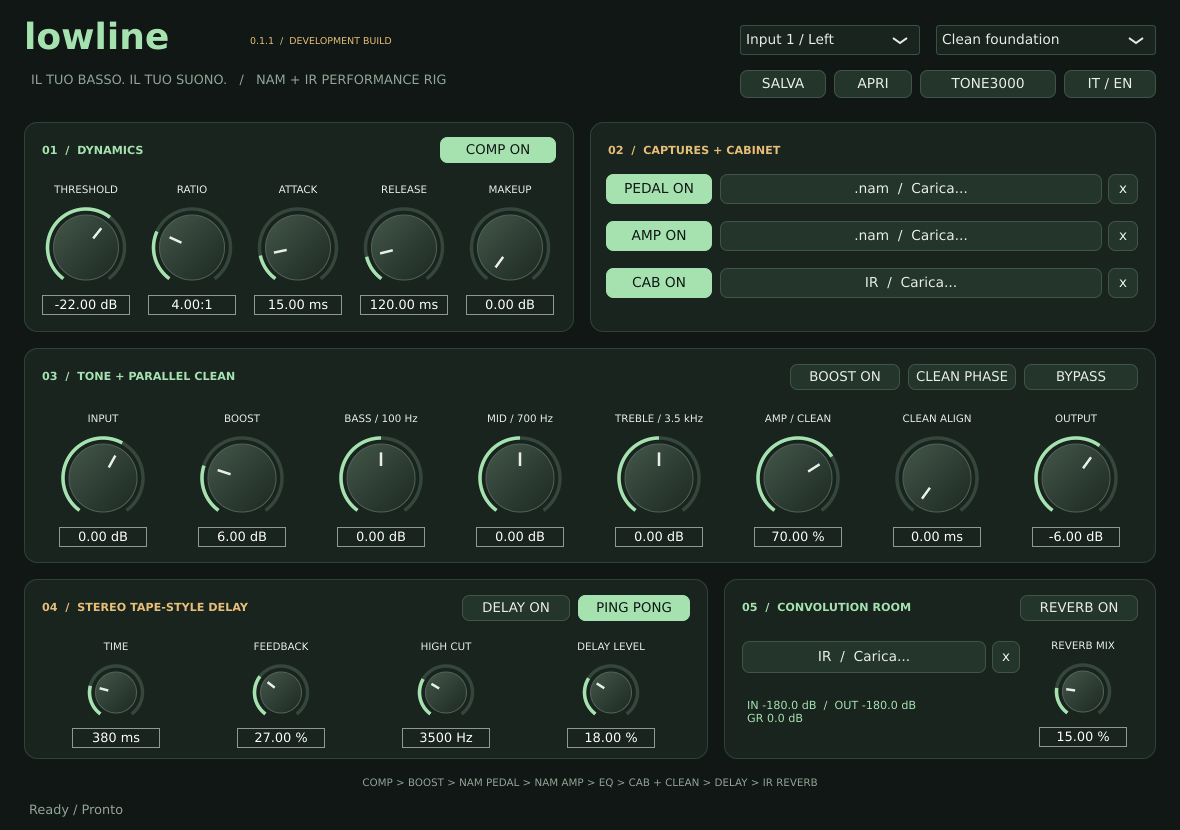
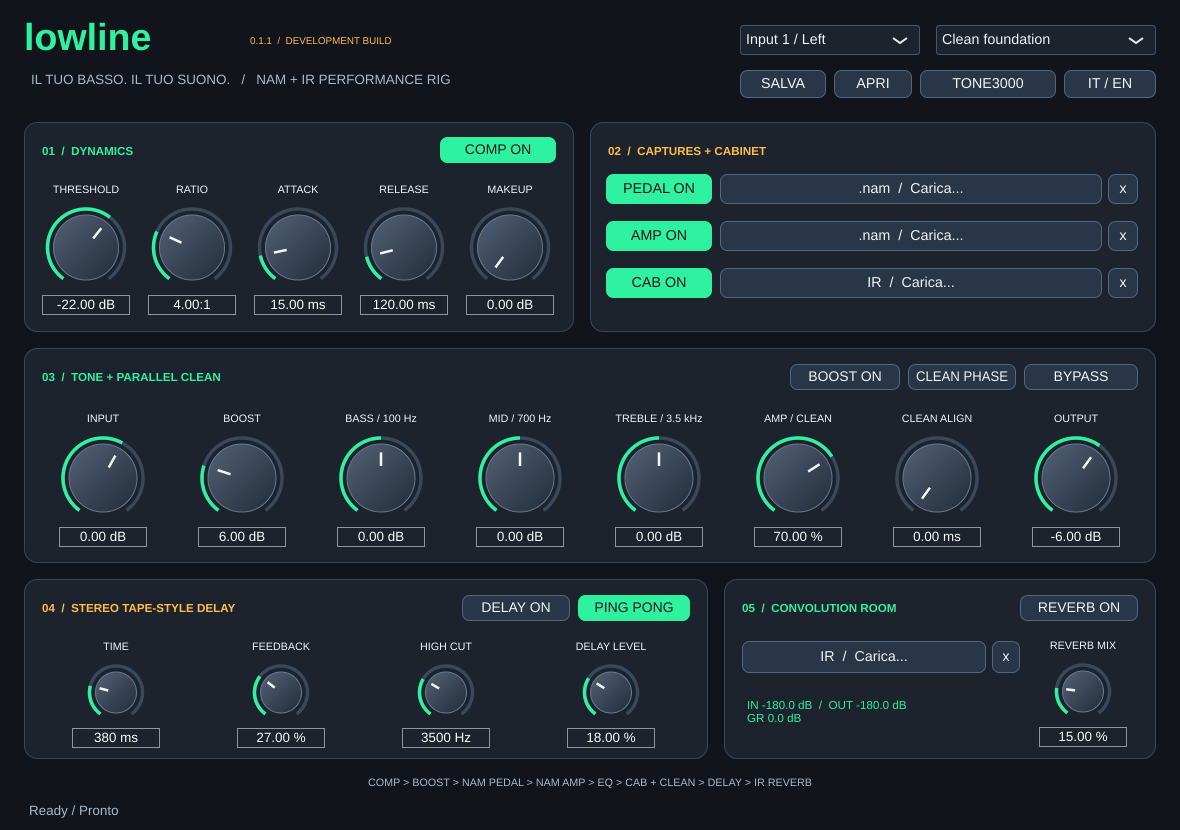
Update interface preview and verified platform downloads [skip ci]

diff --git a/README.md b/README.md
@@ -5,7 +5,7 @@ See `CHANGELOG.md` for the 0.1.1 maintenance fixes.
 
 Original interface and signal-chain implementation, inspired by the idea of a compact amp-and-pedals workspace. Not affiliated with NamRay, Neural Amp Modeler or TONE3000.
 
-**Development version 0.1.1.** Ready-to-run packages are published in [GitHub Actions](https://github.com/MassimoDanieli/lowline/actions/runs/39127864528): Mac universal (Apple Silicon + Intel), Windows x64 and Linux x64. The source ZIP itself contains no binaries. To compile locally, use the included scripts. Build and software tests have run on all three platforms; see `VALIDATION.md` for the limits of that verification.
+**Development version 0.1.1.** Ready-to-run packages are published in [GitHub Actions](https://github.com/MassimoDanieli/lowline/actions/runs/39129426200): Mac universal (Apple Silicon + Intel), Windows x64 and Linux x64. The source ZIP itself contains no binaries. To compile locally, use the included scripts. Build and software tests have run on all three platforms; see `VALIDATION.md` for the limits of that verification.
 
 ![Lowline interface](preview.png)
 
@@ -53,7 +53,7 @@ Set hardware gain so normal playing stays below clipping, then adjust Lowline in
 
 ## Download builds from GitHub Actions
 
-Open the repository's **Actions** tab, select a successful **Native builds** run, and download its **Lowline-macOS-universal**, **Lowline-Windows-x64** or **Lowline-Linux-x64** artifact. Direct packages for the verified 0.1.1 build: [Mac universal](https://github.com/MassimoDanieli/lowline/actions/runs/39127864528/artifacts/12136713681), [Windows x64](https://github.com/MassimoDanieli/lowline/actions/runs/39127864528/artifacts/12136892733), [Linux x64](https://github.com/MassimoDanieli/lowline/actions/runs/39127864528/artifacts/12137256442).
+Open the repository's **Actions** tab, select a successful **Native builds** run, and download its **Lowline-macOS-universal**, **Lowline-Windows-x64** or **Lowline-Linux-x64** artifact. Direct packages for the verified 0.1.1 build: [Mac universal](https://github.com/MassimoDanieli/lowline/actions/runs/39129426200/artifacts/12138015372), [Windows x64](https://github.com/MassimoDanieli/lowline/actions/runs/39129426200/artifacts/12137069663), [Linux x64](https://github.com/MassimoDanieli/lowline/actions/runs/39129426200/artifacts/12137571185).
 
 The outer artifact ZIP contains a platform archive; unpack that archive to find the standalone app and plugins. The Mac archive preserves bundle permissions and is checked for both arm64 and x86_64. It is not Developer-ID signed or notarised. A successful CI test is not a Scarlett or listening test. Artifacts are retained for 30 days.
 

diff --git a/VALIDATION.md b/VALIDATION.md
@@ -1,8 +1,10 @@
 # Validation — Lowline 0.1.1
 
-Verified code commit: `aeb38ab69e38e84f6f151b8ca307b6fc90b1eef6`. [Successful three-platform run](https://github.com/MassimoDanieli/lowline/actions/runs/39127864528).
+Verified code commit: `3356ebcb89ce405bc8883516487c7eec81d796af`. [Successful three-platform run](https://github.com/MassimoDanieli/lowline/actions/runs/39129426200).
 
-## Actually run in this session
+The emerald/amber palette was built and tested on all three platforms. The updated native editor preview was rendered on Linux in CI and visually inspected. Mac archive inspection below refers to the previous 0.1.1 package; the current run repeats the standalone universal-architecture check.
+
+## Validation history
 
 - Configured and compiled the native Linux standalone app and VST3 module in Release mode with GCC 13.3 and C++20.
 - GitHub Actions compiled the app/plugins and passed the regression suite on Linux x64, Windows x64 and macOS. The Mac target builds both arm64 and x86_64; tests execute on the runner's native architecture, not separately on two physical Macs.
